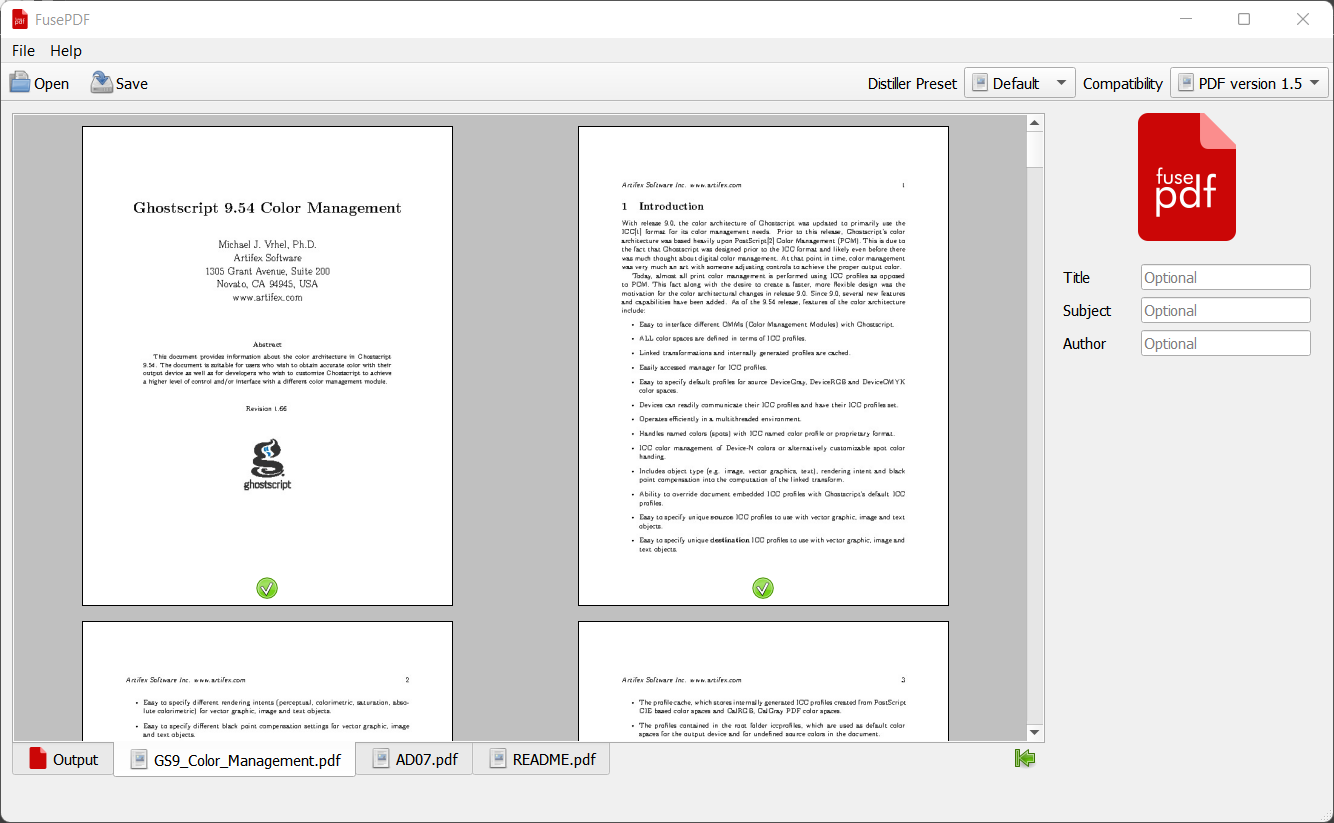
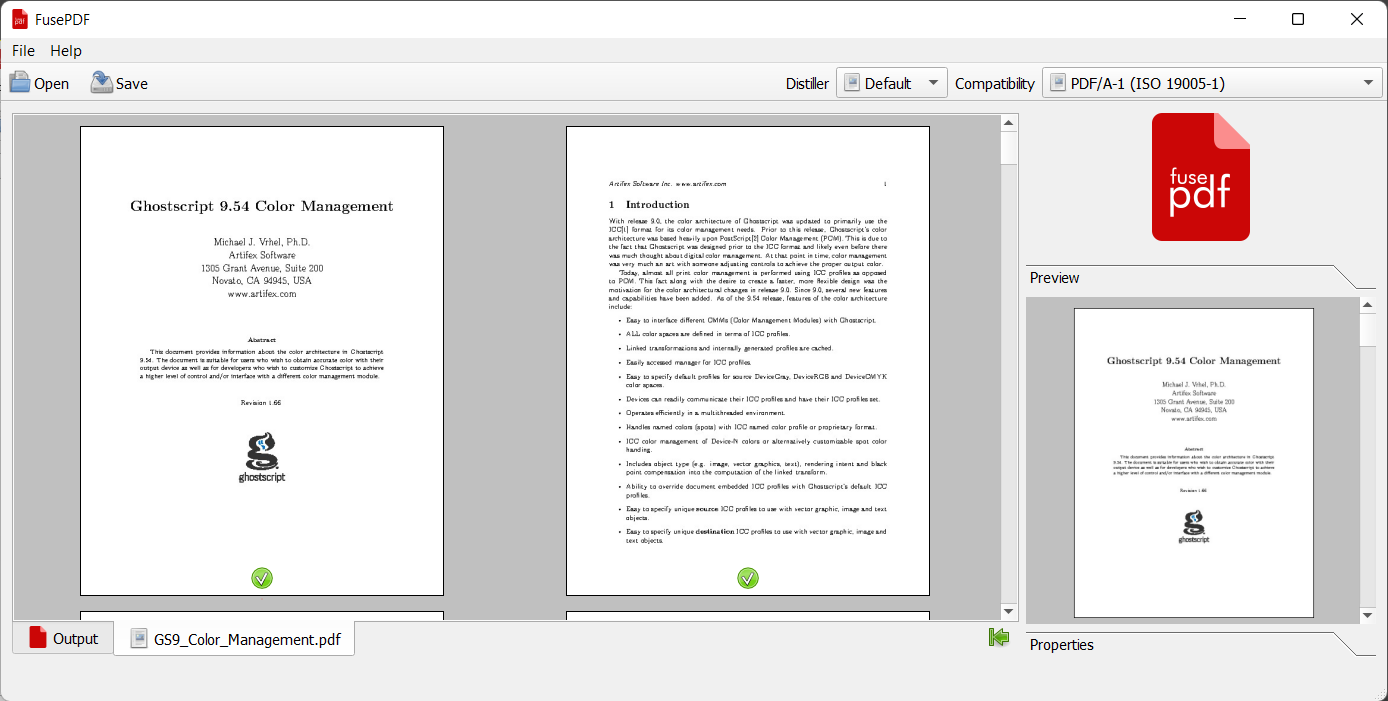
Update docs

diff --git a/docs/index.md b/docs/index.md
@@ -1,16 +1,35 @@
 # Merge PDF documents
 
-FusePDF is an simple cross-platform and open source application used for merging, splitting and extracting PDF pages and documents.
+FusePDF is an simple cross-platform and open source application used for converting, merging and splitting PDF documents.
 
 ![Screenshot of main interface](https://github.com/nettstudio/fusepdf/raw/main/docs/fusepdf-screenshot-01.png "Screenshot of main interface")
 
 * Drag-and-drop any PDF document
 * Preview input and output pages
 * Exclude/Include pages
-* Export to images and/or PDF
-* Support PDF presets
-* PDF compatibility up to version 1.7
-* Change or add PDF meta data (properties)
+* Export to images (TIFF/PNG)
+* Modify meta data (properties)
+* Supports common distiller presets
+
+## Supported PDF versions
+
+FusePDF supports the most common Portable Document Format (PDF) versions and standards.
+
+* PDF 1.0 (Acrobat 1.0)
+* PDF 1.1 (Acrobat 2.0)
+* PDF 1.2 (Acrobat 3.0)
+* PDF 1.3 (Acrobat 4.0)
+* PDF 1.4 (Acrobat 5.0)
+* PDF 1.5 (Acrobat 6.0)
+* PDF 1.6 (Acrobat 7.0)
+* PDF 1.7 (Acrobat 8.0 / ISO 32000-1)
+* PDF 2.0 (ISO 32000-2)
+
+PDF/A is an ISO-standardized version of the Portable Document Format (PDF) specialized for use in the archiving and long-term preservation of electronic documents.
+
+* PDF/A-1 (ISO 19005-1)
+* PDF/A-2 (ISO 19005-2)
+* PDF/A-3 (ISO 19005-3)
 
 # Basic usage
 
@@ -48,17 +67,22 @@ For macOS [Richard Koch](https://pages.uoregon.edu/koch/) hosts Ghostscript bina
 
 # Roadmap
 
-  * Advanced options
-    * ICC support
-    * Convert to/from RGB/CMYK
-  * Translations
-    * Norwegian
+See https://github.com/nettstudio/fusepdf/issues.
 
 # ChangeLog
 
 ## 2.2.0
 
-N/A
+Released : ETA Apr 2022.
+
+* Preview update bug fix
+* Updated UI
+* Set document properties as tooltip
+* Can now save to PDF 2.0 (ISO 32000-2)
+* Can now save to PDF/A
+  * PDF/A-1 (ISO 19005-1)
+  * PDF/A-2 (ISO 19005-2)
+  * PDF/A-3 (ISO 19005-3)
 
 ## 2.1.0
 
